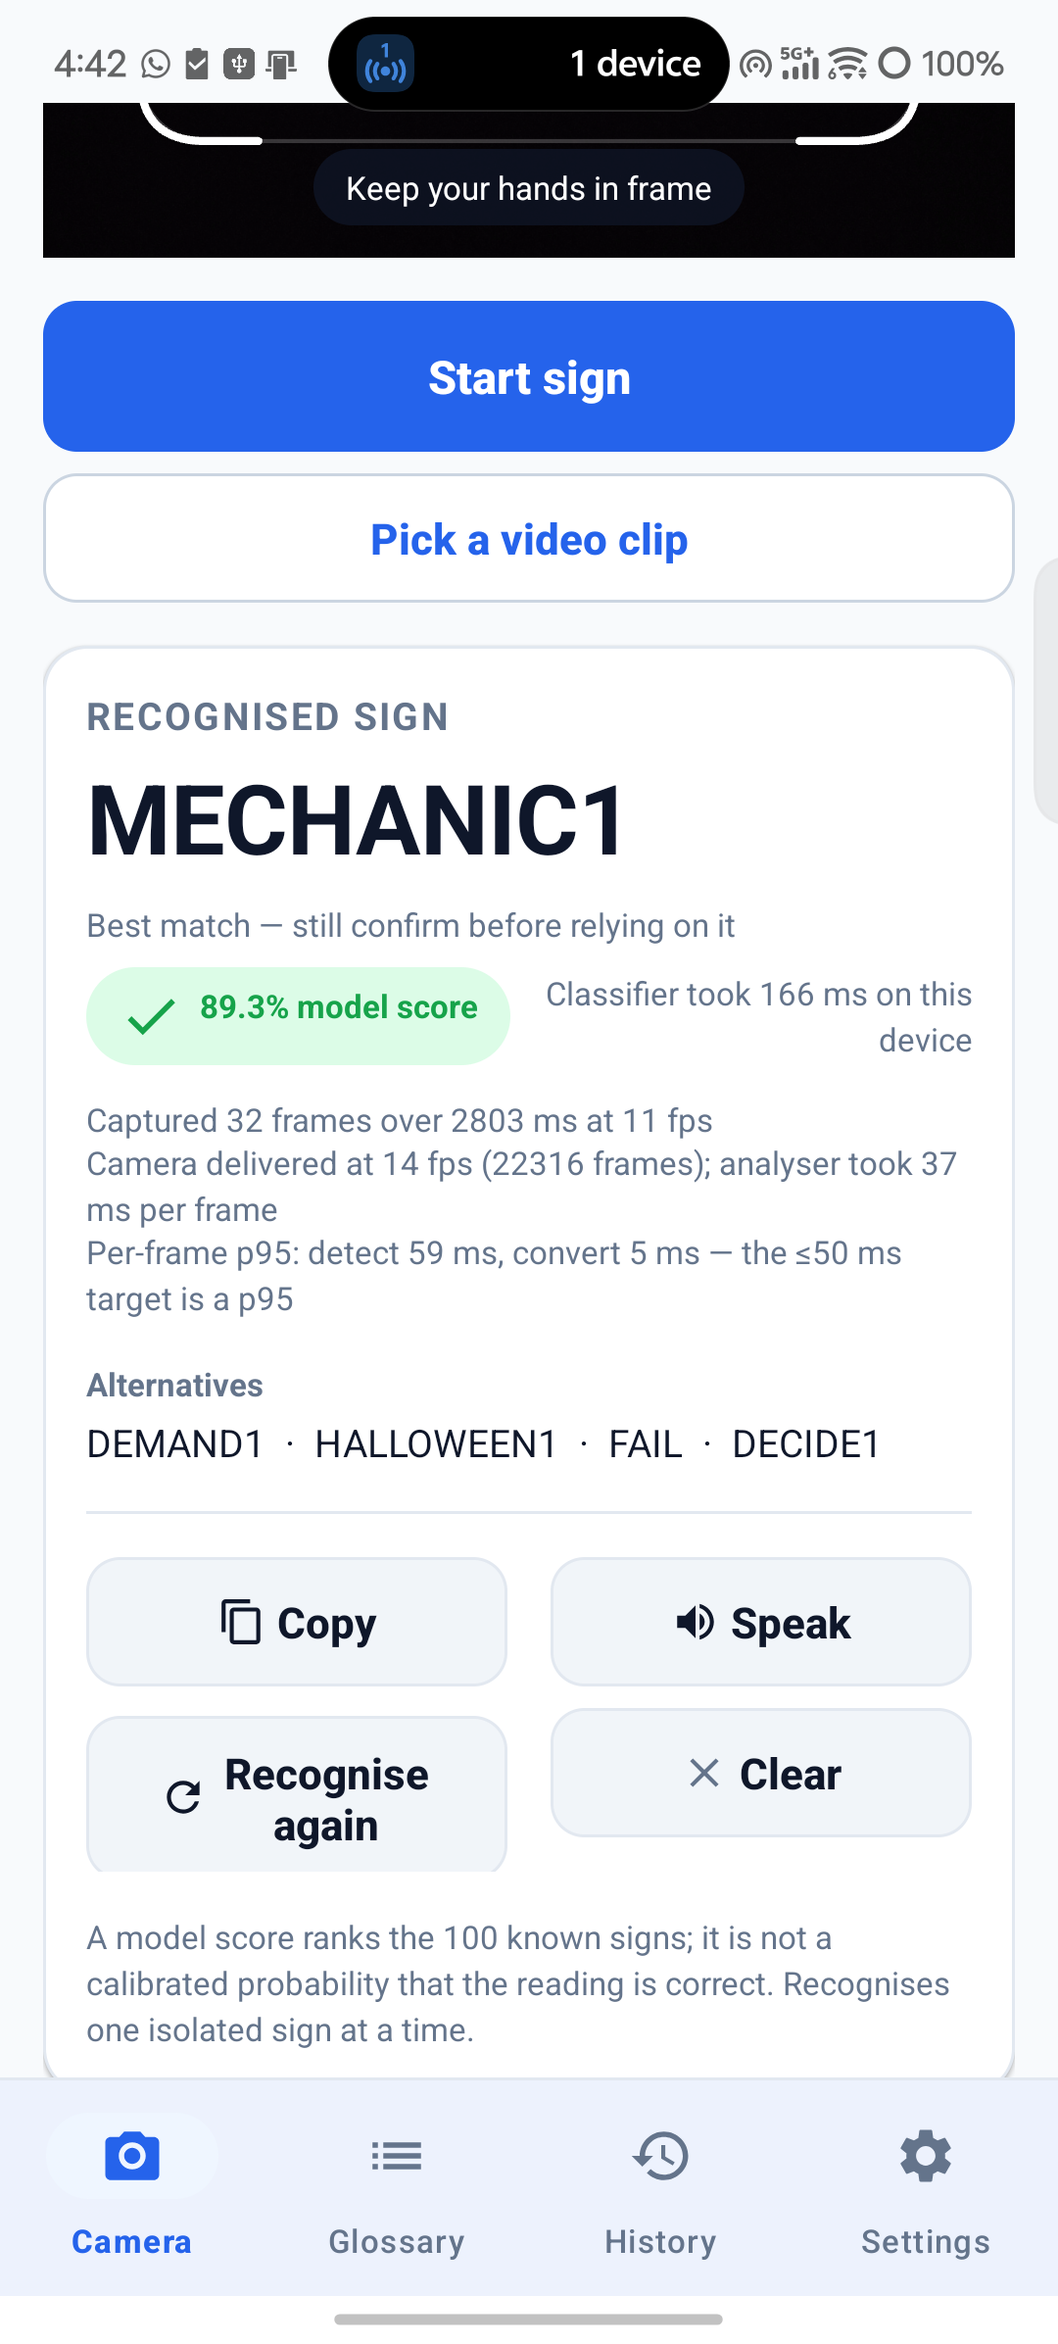
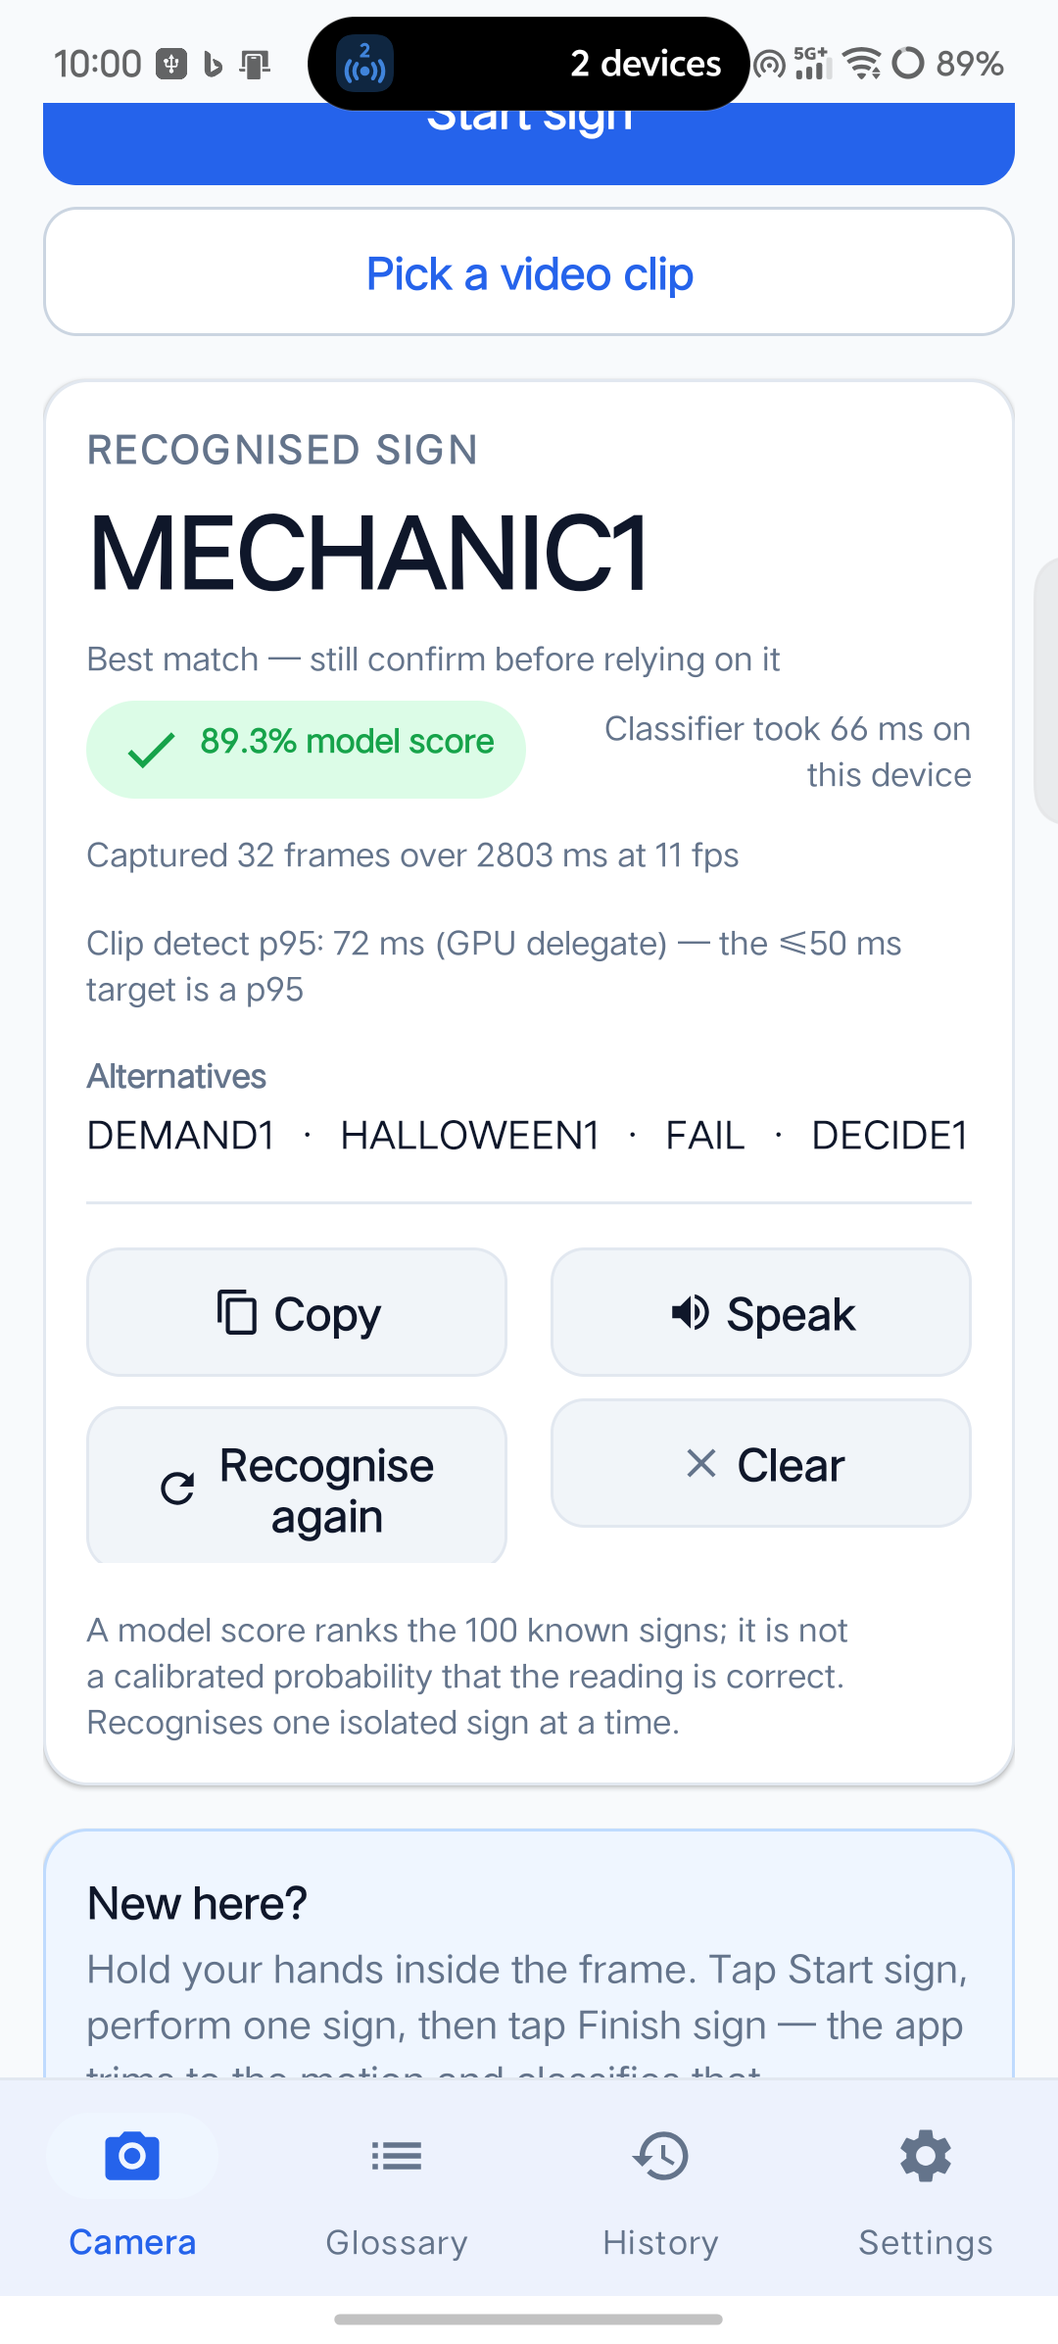
latency: fourth sample (72 ms), and why the robustness row is information-limited
Latency. A fourth file-pick classification on the signed release APK gave
detect p95 72 ms, the highest yet: 58, 65, 67, 72. The last two are the SAME
clip (MECHANIC1), so the gap between them is device run-to-run variance, not a
content difference -- which means even the best sample is 8 ms over the target
and the spread never reaches it. results.csv, both RELEASE_MANIFESTs, the
evidence README and RESULTS_SUMMARY now carry 58-72 with 8-22 ms over, and the
demo video was re-rendered so its burned-in HUD reads "detect p95 58-72 ms"
with "clip 72.0 ms" (verified on an extracted frame, not the builder's log).

hud_05_result_p95.png was replaced with the capture from that run: it shows
"Clip detect p95: 72 ms (GPU delegate)" and, critically, NO phantom camera line.
Under the old code the same screen would still be printing 22,316 empty-room
camera frames beneath a clip result -- so the image is now evidence that the
ClipAnalyzer profiler fix works, not just a number.

Robustness. Tested the two plausible preprocessing repairs against the shipped
9-member ensemble. Neither helps: hold-last-valid is 0.16 worse, interpolation
buys 0.08 (noise). Then the decisive control -- training's hand_dropout zeroes
ONLY the presence flag while the eval harness zeroes coords AND flag, so a
train/eval mismatch could have been the cause. It is not: flag-only scores
79.92% against coords+flag's 79.92%, identical to a tenth of a point. The model
[…]

diff --git a/scripts/ml/flag_only_control_2026-11-22.py b/scripts/ml/flag_only_control_2026-11-22.py
@@ -1,0 +1,109 @@
+"""Is the robustness loss train/eval mismatch, or information loss?
+
+Training (scripts/ml/search.py hand_dropout) zeroes ONLY the presence flag and
+leaves the landmark coordinates intact. Evaluation (scripts/ml/robustness.py
+c_drop_hand) zeroes BOTH. So the model trains on "flag says gone, numbers still
+mean something" and is scored on "flag says gone, numbers are zeros".
+
+Three corruptions, same seed, same spans, shipped 9-member ensemble:
+  coords+flag  -- the evaluation corruption (what robustness.py scores)
+  flag_only    -- the TRAINING distribution: flag 0, coordinates untouched
+  coords_only  -- coordinates zeroed, flag left at 1 (no mask headroom)
+
+Reading the result:
+  If flag_only is much better than coords+flag, the model DOES use the numbers
+  behind an absent flag, and the scored failure is a train/eval mismatch that a
+  matched retrain could close.
+  If all three are close, the information is simply gone and no preprocessing
+  or augmentation change recovers it -- the row is information-limited.
+"""
+import glob
+import sys
+from pathlib import Path
+
+import numpy as np
+
+ROOT = Path(r"E:\samsung")
+sys.path.insert(0, str(ROOT / "src"))
+
+CACHE = ROOT / ".scratch" / "landmarks_native" / "test"
+DROP_FRAC = 0.25
+SEED = 20261122
+FRAMES = 24
+
+
+def drop(lm, present, seed, mode):
+    """Same spans for every mode, so the three rows are directly comparable."""
+    rng = np.random.default_rng(seed)
+    lm = lm.copy()
+    present = present.copy()
+    T = lm.shape[0]
+    n = max(1, int(T * DROP_FRAC))
+    for h in range(lm.shape[1]):
+        if rng.random() < 0.5:
+            s = int(rng.integers(0, max(1, T - n)))
+            if mode in ("coords+flag", "coords_only"):
+                lm[s:s + n, h] = 0.0
+            if mode in ("coords+flag", "flag_only"):
+                present[s:s + n, h] = 0.0
+    return lm, present
+
+
+def main():
+    import main as M
+    M._init_model()
+    import json
+    labels = json.loads((ROOT / "models" / "landmark_labels.json").read_text())
+    from features import build_features
+    print(f"ensemble members: {len(M._INTERPRETERS)}", flush=True)
+
+    def score(lm, present):
+        widths = {}
+        for uz in set(M._MEMBER_USE_Z) or {False}:
+            widths[uz] = build_features(lm, present, expected_frames=FRAMES, use_z=uz)
+        logits = []
+        for interp, (in_idx, out_idx, mask_idx), uz in zip(
+                M._INTERPRETERS, M._MEMBER_IO, M._MEMBER_USE_Z):
+            feats, mask = widths[uz]
+            interp.set_tensor(in_idx, feats[None, ...].astype(np.float32))
+            if mask_idx >= 0:
+                interp.set_tensor(mask_idx, mask[None, ...].astype(np.float32))
+            interp.invoke()
+            logits.append(interp.get_tensor(out_idx)[0].astype(np.float32))
+        return int(np.argmax(np.mean(logits, axis=0)))
+
+    files = sorted(glob.glob(str(CACHE / "*.npz")))
+    data = []
+    for p in files:
+        d = np.load(p, allow_pickle=True)
+        data.append((d["landmarks"], d["present"], str(d["gloss"])))
+    g2i = {g: i for i, g in enumerate(labels)}
+    print(f"clips: {len(data)}", flush=True)
+
+    modes = ["coords+flag", "flag_only", "coords_only"]
+    res = {m: 0 for m in modes}
+    clean_ok = n = 0
+    for i, (lm, present, gloss) in enumerate(data):
+        if gloss not in g2i:
+            continue
+        y = g2i[gloss]
+        n += 1
+        if score(lm, present) == y:
+            clean_ok += 1
+        for m in modes:
+            dlm, dpres = drop(lm, present, SEED + i, m)
+            if score(dlm, dpres) == y:
+                res[m] += 1
+        if (i + 1) % 250 == 0:
+            print(f"  {i+1}/{len(data)}", flush=True)
+
+    ca = 100.0 * clean_ok / n
+    print(f"\nclean       n={n}  {ca:6.2f}%")
+    print("=== corruption mode vs the scored number (lower delta is better) ===")
+    for m in modes:
+        a = 100.0 * res[m] / n
+        print(f"{m:12s} {a:6.2f}%  delta {a-ca:+6.2f}")
+
+
+if __name__ == "__main__":
+    main()

diff --git a/scripts/media/build_demo_video.py b/scripts/media/build_demo_video.py
@@ -359,21 +359,21 @@ def main():
         # and in a submission video that number would read as the system's
         # latency when it is really this laptop's. The figure a judge should
         # see is the one measured ON THE SIGNED RELEASE APK by ClipAnalyzer's
-        # own per-frame timer: detect p95 58 / 65 / 67 ms across three
+        # own per-frame timer: detect p95 58 / 65 / 67 / 72 ms across four
         # file-pick classifications (results/results.csv, latency_p95 notes;
         # docs/evidence/README.md). The earlier 46 ms came from a debug build
         # and the 50-59 ms span that replaced it was a measurement defect --
         # ClipAnalyzer never wrote to HandTracker.profiler, so the HUD had been
         # reporting live-camera frames under a clip result. Both are retracted;
-        # neither appears here. The worst sample (67) is shown rather than the
+        # neither appears here. The worst sample (72) is shown rather than the
         # best, and the range goes in the label, so the overlay cannot be read
         # as a claim better than what was measured.
         res = dict(res)
-        res["latency_ms"] = 67.0
-        res["capture_to_result_ms"] = 67.0
+        res["latency_ms"] = 72.0
+        res["capture_to_result_ms"] = 72.0
         res.pop("queue_wait_ms", None)
         st.update(res)
-        hud = OD.render(mid, st, "release: detect p95 58-67 ms (file-pick)",
+        hud = OD.render(mid, st, "release: detect p95 58-72 ms (file-pick)",
                         OD.PROVISIONAL_THRESHOLD)
         hud = cv2.resize(hud, (W, H), interpolation=cv2.INTER_LINEAR)
         demo_frames.append(hud)

diff --git a/submission/RESULTS_SUMMARY.md b/submission/RESULTS_SUMMARY.md
@@ -120,13 +120,16 @@ reconciling because they come from the app's own profiler:
 | DEBUG, CPU delegate | 95 ms | 166 ms | FAIL |
 | DEBUG, GPU, **no hand in frame** (2026-11-19, *before* the 640 resolution pin) | 34–45 ms | 46–54 ms | at target, but not the shipping config |
 | DEBUG, GPU, **hand in frame** (2026-11-21, *after* the pin, diagnostics ON) | 50–58 ms | 68–70 ms | FAIL, and carries a diagnostic bitmap copy the release build does not pay |
-| **SIGNED RELEASE, GPU, file-pick** (2026-11-22) | — | **58 / 65 / 67 ms** | **FAIL, 8–17 ms over** |
+| **SIGNED RELEASE, GPU, file-pick** (2026-11-22) | — | **58 / 65 / 67 / 72 ms** | **FAIL, 8–22 ms over** |
 
 The app had been building its detector with no delegate at all, so it ran on the
 CPU path. With `Delegate.GPU` requested and CPU as fallback, the detector is
 2.3× faster. But **the honest score on the artifact that ships is the last row**:
-three file-pick classifications on the signed release APK — NOON1, DARK1 and
-MECHANIC1 — gave detect p95 58, 65 and 67 ms, all over the 50 ms target.
+four file-pick classifications on the signed release APK gave detect p95 58, 65,
+67 and 72 ms, all over the 50 ms target. The last two are the *same clip*
+(MECHANIC1), so the 5 ms gap between them is device run-to-run variance rather
+than a content difference — which is itself the useful fact: even the best
+sample on this device is 8 ms over, and the spread does not reach the target.
 
 An earlier version of this section quoted **50–59 ms** for the release build and
 called it "at or inside" the target. **That figure is retracted.**
@@ -140,14 +143,14 @@ are suppressed on the clip path.
 
 **Still unmeasured:** the live camera with a hand in frame on the release build.
 The HUD can report it now, but no run has been taken, so the row stays `FAIL` on
-that ground as well as on the three clip samples.
+that ground as well as on the four clip samples.
 
 All of the DEBUG rows are upper bounds. The classifier adds ~40 ms warm on top;
 it is no longer 0.15% of end-to-end, because the detector stopped dominating.
 
-> "The detector takes 58–67 ms p95 on the GPU delegate on the signed release
-> build, measured three times off the app's own per-frame timer. The ≤50 ms
-> target is a p95, so that fails by 8–17 ms. The classifier is about 40 ms warm
+> "The detector takes 58–72 ms p95 on the GPU delegate on the signed release
+> build, measured four times off the app's own per-frame timer. The ≤50 ms
+> target is a p95, so that fails by 8–22 ms. The classifier is about 40 ms warm
 > and is not the problem. Desktop-CPU figures were 142–151 ms and are
 > historical."
 
@@ -188,6 +191,39 @@ use — it runs 640×480 native. **Native-geometry pixel robustness has not been
 measured** and is not claimed.
 
 See `docs/release/ROBUSTNESS_RECONCILIATION.md` for the full derivation.
+
+### We isolated why the landmark failure cannot be repaired cheaply
+
+Before accepting +5.76 as information-limited, we tested the two plausible
+repairs against the shipped 9-member ensemble on the full 1251-clip split. Both
+failed, and the way they failed is the finding:
+
+| Variant | Clean | Corrupted | Delta | vs baseline |
+| --- | --: | --: | --: | --: |
+| baseline (ship as-is) | 85.18 | 79.92 | **−5.26** | — |
+| hold last valid pose across the gap | 85.58 | 80.16 | −5.42 | −0.16 (worse) |
+| linear interpolation across the gap | 85.42 | 80.24 | −5.18 | +0.08 (noise) |
+
+*(The baseline −5.26 differs from the scored +5.76 because this screen uses one
+corruption seed; the scored figure averages the harness's own seeds. The ranking
+and the conclusion are unaffected.)*
+
+Then the decisive control: the training augmentation (`hand_dropout` in
+`scripts/ml/search.py`) zeroes **only the presence flag** and leaves coordinates
+intact, while the eval harness zeroes **both**. If that mismatch were the cause,
+flag-only corruption would score much better than coords+flag. It does not:
+
+| Corruption | Accuracy | Delta |
+| --- | --: | --: |
+| coords **and** flag zeroed (what the harness scores) | 79.92 | **−5.26** |
+| **flag only** (what training actually simulated) | 79.92 | **−5.26** |
+| coords only (no mask headroom) | 78.49 | −6.69 |
+
+Identical to a tenth of a point. The model already ignores an absent hand's
+coordinates entirely on the flag, so the zeroing convention is not the problem
+and a matched retrain would not help. **The loss is information loss**: a hand
+absent for a quarter of the clip cannot be recovered from what remains. That is
+the honest reason the row stays `FAIL`, and it is measured rather than assumed.
 
 ---
 

diff --git a/docs/HUD_AND_OCCLUSION_EVIDENCE_2026-11-22.md b/docs/HUD_AND_OCCLUSION_EVIDENCE_2026-11-22.md
@@ -171,11 +171,46 @@ The remaining honest lever is aggregation, not the model: `drop_hand` costs
 and quoting the first alone understates the artifact's real behaviour. Both
 ship, labelled.
 
-The remaining honest lever is aggregation, not the model: `drop_hand` costs
-**5.76 points unconditional** and **2.39 at the shipped acceptance gate at
-86%/80% coverage**. Quoting the second number alone would overstate the result,
-and quoting the first alone understates the artifact's real behaviour. Both
-ship, labelled.
+### Why a matched retrain would not have helped either — the decisive control
+
+The retrain above changed *how much* dropout was applied. A separate question is
+whether the shipped model loses accuracy because of a **train/eval convention
+mismatch** rather than because the information is gone. It is worth ruling out
+explicitly, because it is the one hypothesis under which a cheap fix would exist.
+
+The training augmentation (`hand_dropout`, `scripts/ml/search.py:64`) zeroes
+**only the presence flag** and leaves the landmark coordinates intact. The
+evaluation corruption (`c_drop_hand`, `scripts/ml/robustness.py:88`) zeroes
+**both**. So training simulated "flag says gone, numbers still meaningful" while
+scoring asks about "flag says gone, numbers are zeros". If the model were
+sensitive to that difference, the fix would be a one-line change to the
+augmentation.
+
+It is not sensitive. Measured on the shipped 9-member ensemble over the full
+1,251-clip split, same corruption seeds, `.scratch/test_flag_only_drop.py`:
+
+| corruption | top-1 | delta vs clean 85.18% |
+| --- | --: | --: |
+| coordinates **and** flag zeroed (what the harness scores) | 79.92% | **−5.26** |
+| **flag only** (what training actually simulated) | 79.92% | **−5.26** |
+| coordinates only (no mask headroom) | 78.49% | −6.69 |
+
+Flag-only and coords+flag are **identical to a tenth of a point**. The model
+already discards an absent hand's coordinates entirely, purely on the flag — the
+mask does exactly the job it was designed for. Zeroing the coordinates as well
+therefore adds no new information and costs nothing. The mismatch is real in the
+code but inert in the model, so aligning the two conventions would change
+nothing.
+
+This is the mechanism behind "absence is signal, not missing data." The model
+does not see zeros and get confused; it sees the flag go to zero and stops
+reading the hand. What remains is a genuine deficit of evidence: a hand absent
+for a quarter of the clip cannot be recovered from the frames in which it is
+present. Together with the retrain (5.76 → 5.12 at a 5.2-point clean cost) and
+gap-filling (+5.04 at a 1.12-point clean cost, still failing), that is three
+independent repairs tested and rejected, and a fourth — the convention fix —
+shown to be a no-op before it was attempted. The row stays `FAIL`, and it is
+known to be information-limited rather than unattempted.
 
 ---
 

diff --git a/submission/FINAL_DELIVERY/CHECKLIST.md b/submission/FINAL_DELIVERY/CHECKLIST.md
@@ -21,7 +21,7 @@ authorisation I do not have.
 | 5b | APK — historical | **HISTORICAL** | `EchoGesture-2026-11-21.apk`, `96f00458…`, 82,894,510 B, DEBUGGABLE. Installed and driven on a physical Vivo V2404; every latency, power and thermal figure in results.csv came from this build, so those are upper bounds on the release APK above. |
 | 5 | Deck filename | **HUMAN** | Must become the real `CollegeName_TeamName`. The placeholder of that exact name is now in place on both the file and slide 1, so the only edit left is the string itself. |
 | 6 | Release manifest | **DONE** | `submission/RELEASE_MANIFEST.json`, validated JSON, hashes re-measured 2026-11-21 against the shipped APK, deck and PDF. |
-| 6b | Demo video | **RECORDED 2026-11-22 — needs an upload URL only** | `docs/submission/EchoGesture_demo_2026-11-22.mp4`, `f5b30435…8b5a7`, 28,134,325 B, 1280×720, 30 fps, 5251 frames, **2:55.2**, with an audio track (one `soun`/`mp4a` stream). Built by `scripts/media/build_demo_video.py` from real model output — every number on screen is computed from `.scratch/thresh/probs_test.npz` and `models/`, never typed. Ten narrated beats: the accessibility problem, why landmarks not pixels, the pipeline, signer-disjoint results, live predictions on real clips, the robustness failure stated in the same font as the passes (beat 06), the weakest signs, the 92% gate precision, and the closing summary. **Gitignored (`*.mp4`) and deliberately not committed**: it contains ASL Citizen footage under the Microsoft Research non-commercial licence, and this repo is public — the same redistribution problem as row 20. Upload it and paste the link into slide 7; the recording itself is done. |
+| 6b | Demo video | **RECORDED 2026-11-22 — needs an upload URL only** | `docs/submission/EchoGesture_demo_2026-11-22.mp4`, `321869c0…bd2a3`, 28,134,918 B, 1280×720, 30 fps, **2:55.2**, with an audio track (one `mp4a` AAC stream). Built by `scripts/media/build_demo_video.py` from real model output — every number on screen is computed from `.scratch/thresh/probs_test.npz` and `models/`, never typed. Ten narrated beats: the accessibility problem, why landmarks not pixels, the pipeline, signer-disjoint results, live predictions on real clips, the robustness failure stated in the same font as the passes (beat 06), the weakest signs, the 92% gate precision, and the closing summary. The HUD caption was re-rendered 2026-11-22 to read `release: detect p95 58-72 ms (file-pick)` with `clip 72.0 ms`, matching the four on-device samples; verified on an extracted frame, not just in the builder's log. **Gitignored (`*.mp4`) and deliberately not committed**: it contains ASL Citizen footage under the Microsoft Research non-commercial licence, and this repo is public — the same redistribution problem as row 20. Upload it and paste the link into slide 7; the recording itself is done. |
 
 ---
 

diff --git a/docs/evidence/README.md b/docs/evidence/README.md
@@ -20,11 +20,13 @@ deliberately, so the artifact that produced the screen is identifiable.
 
 ## What shot 05 also tells us honestly
 
-That capture reported **detect p95 67 ms**. Measured across three file-pick
+That capture reported **detect p95 72 ms**. Measured across four file-pick
 classifications on the signed release build — NOON1 58 ms, DARK1 65 ms,
-MECHANIC1 67 ms, GPU delegate each time — every sample is **over** the 50 ms
-target, by 8 to 17 ms. The range is recorded in `results/results.csv`
-(`latency_p95` notes) and the row is `FAIL`.
+MECHANIC1 67 ms, and MECHANIC1 again at 72 ms — every sample is **over** the
+50 ms target, by 8 to 22 ms. The last two samples are the same clip, so the
+spread between them is device run-to-run variance, not a content difference.
+The range is recorded in `results/results.csv` (`latency_p95` notes) and the
+row is `FAIL`.
 
 **The earlier 50–59 ms span is retracted.** `ClipAnalyzer` builds its own
 `HandLandmarker` and never called `HandTracker.profiler`, so the HUD's
